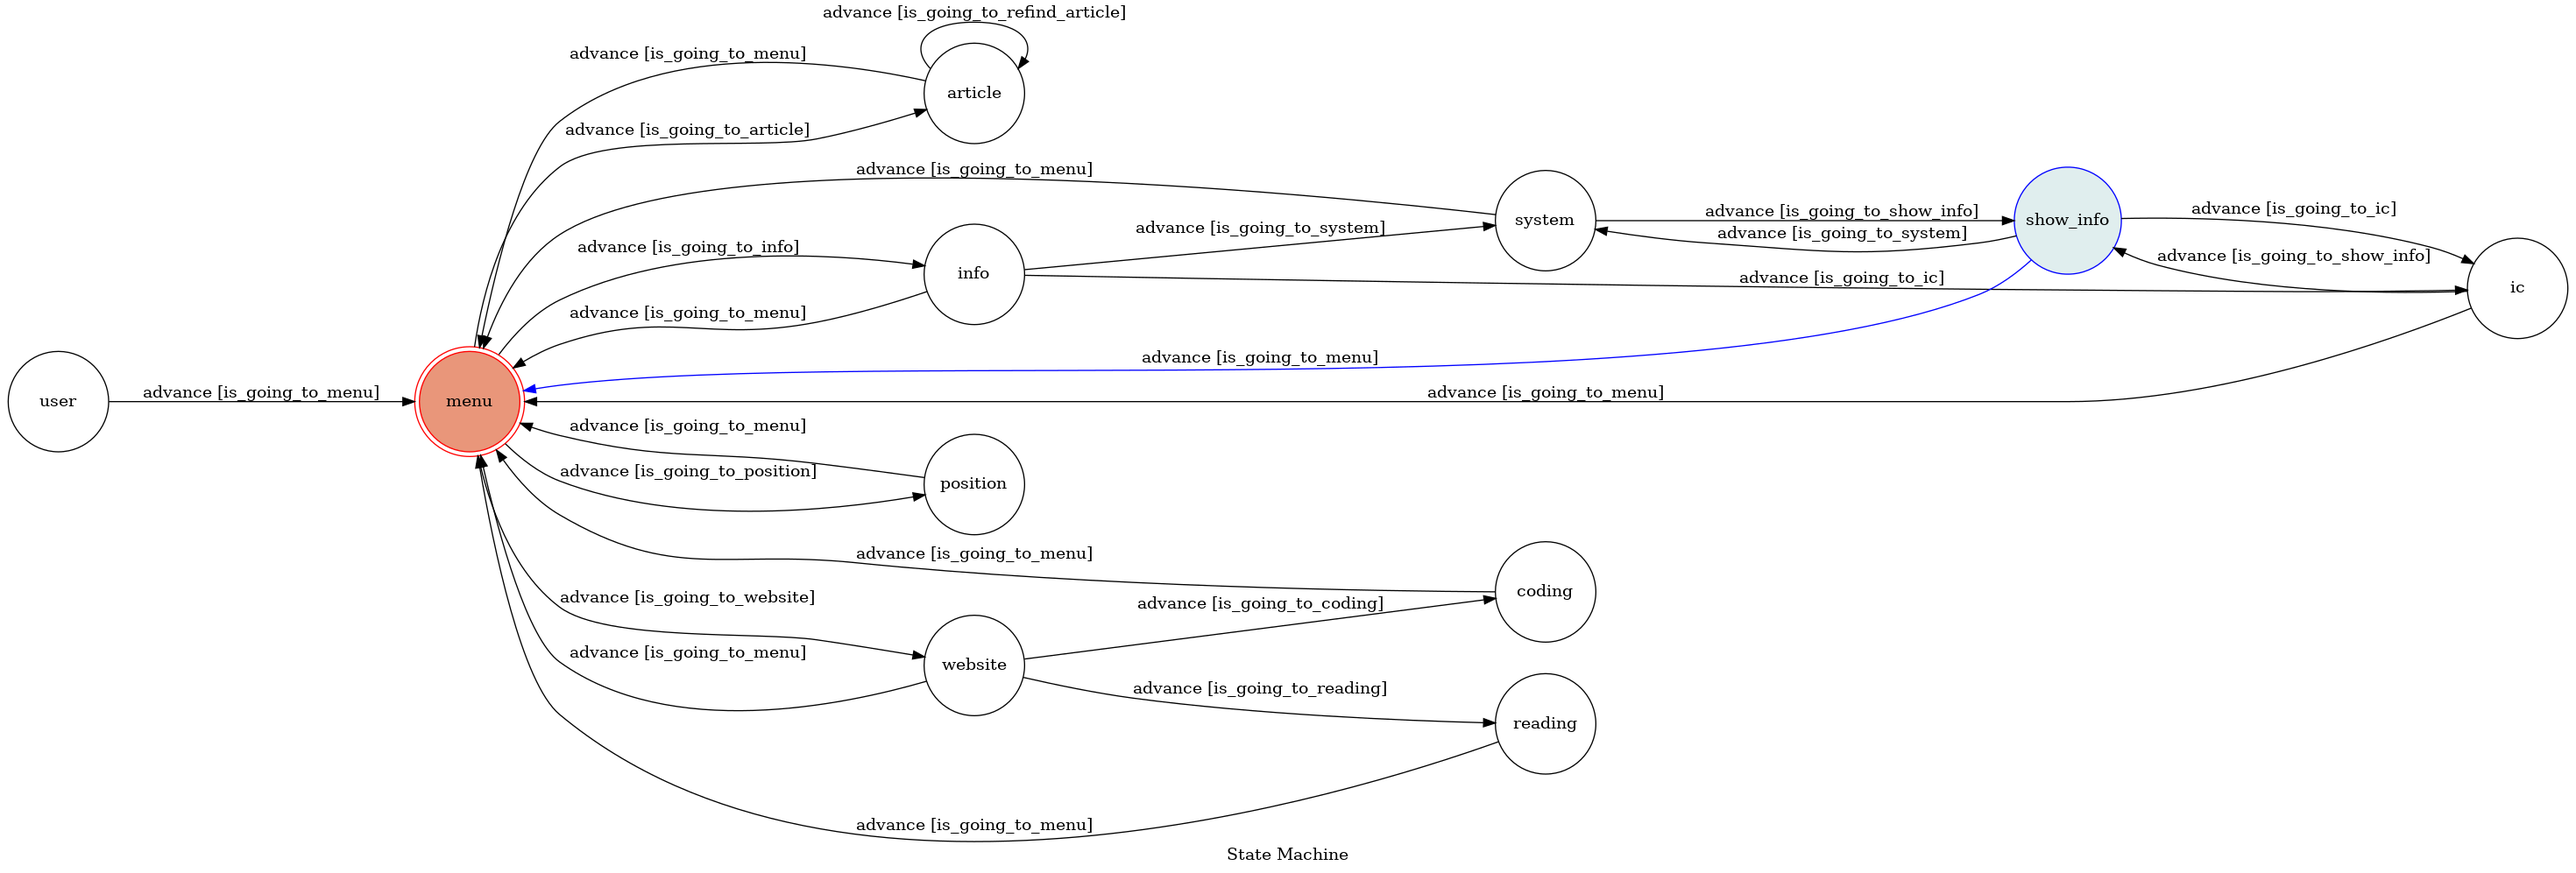
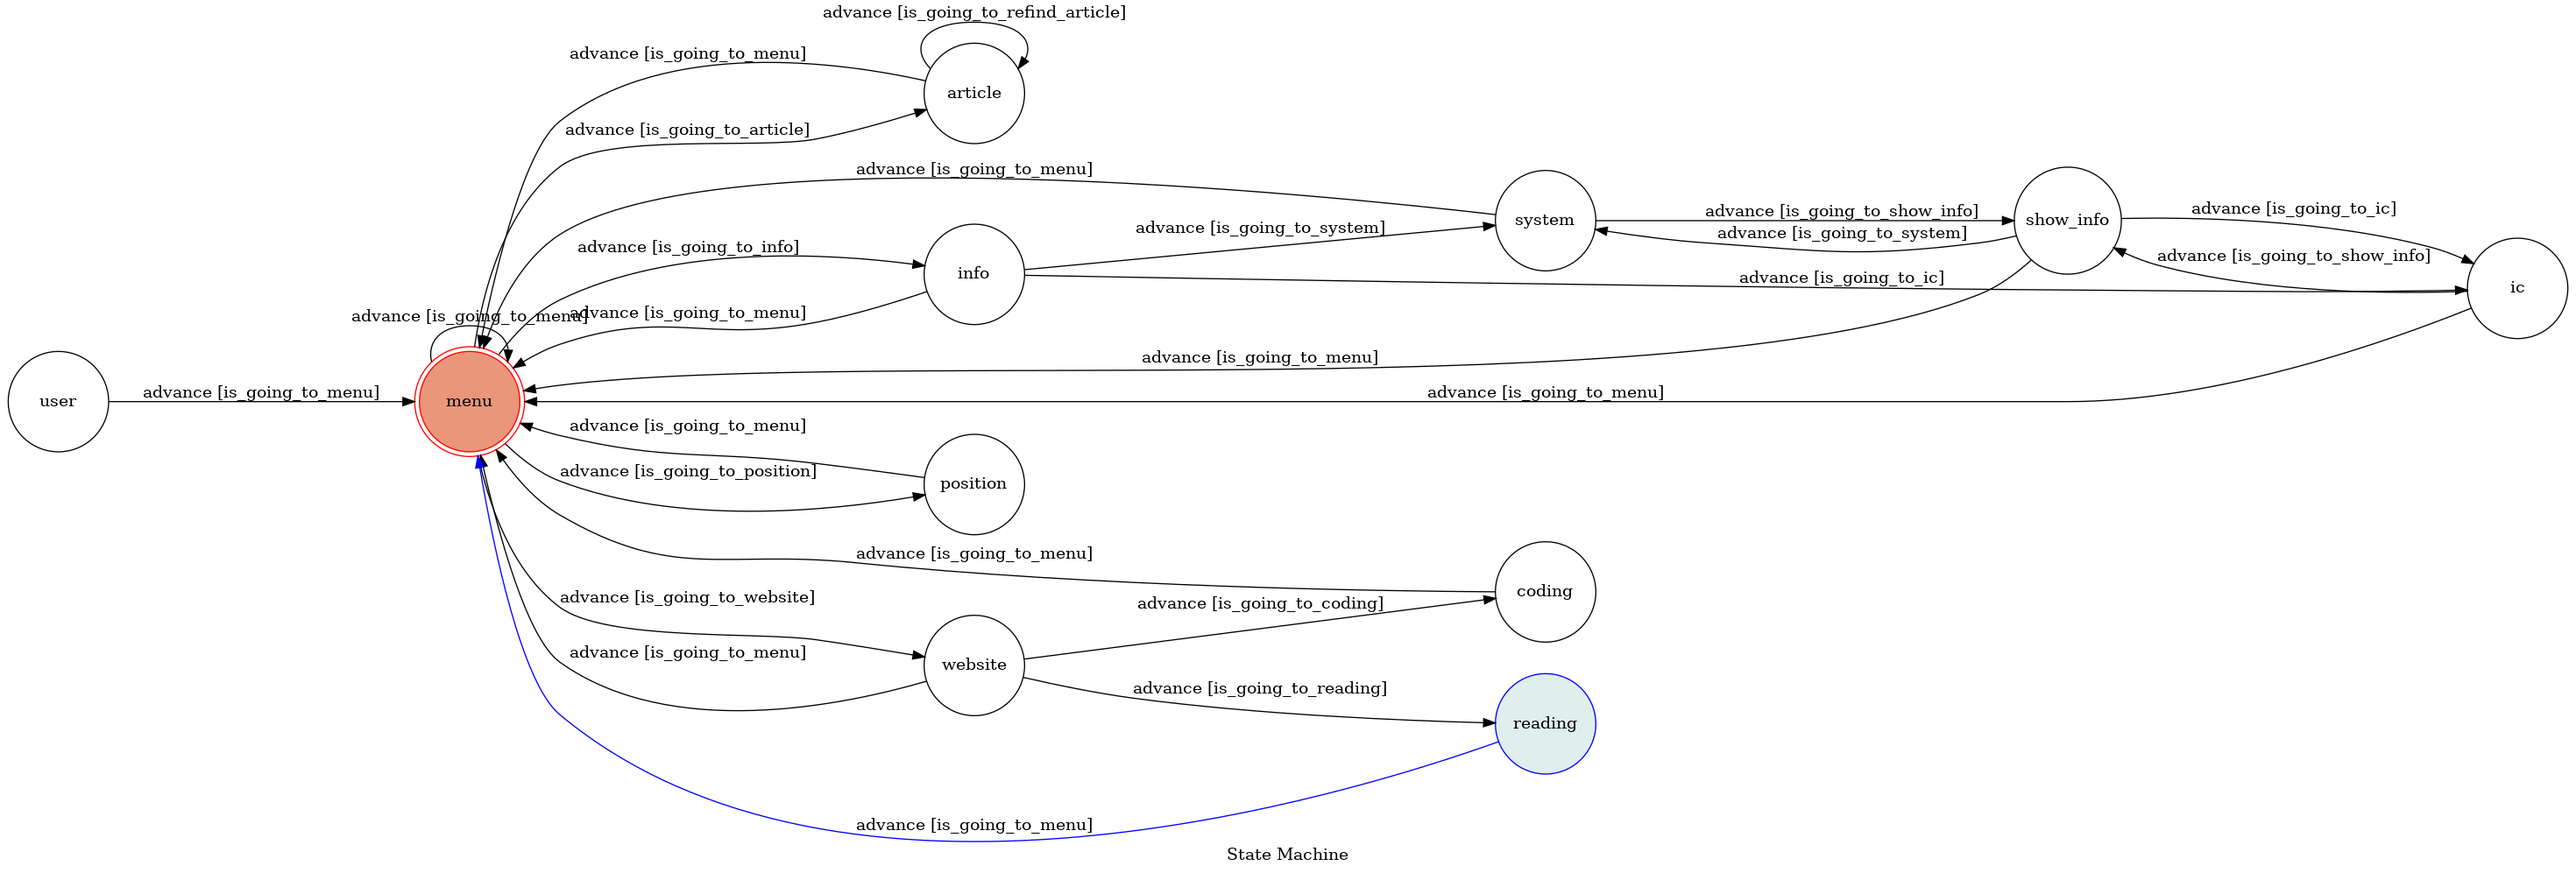
Main can self loop now

Changed region(s): [[0.7738, 0.1866, 0.8357, 0.3109], [0.5571, 0.7773, 0.619, 0.9017], [0.1548, 0.342, 0.2167, 0.3731]]

diff --git a/app.py b/app.py
@@ -153,6 +153,12 @@ machine = TocMachine(
             "dest": "menu",
             "conditions": "is_going_to_menu",
         },
+        {
+            "trigger": "advance",
+            "source": "menu",
+            "dest": "menu",
+            "conditions": "is_going_to_menu",
+        },
         #{"trigger": "go_back", "source": ["article", "info", "position", "website"], "dest": "user"},
     ],
     initial="user",
@@ -230,7 +236,7 @@ def webhook_handler():
         response = machine.advance(event)
         if response == False:
             if event.message.text.lower() == 'fsm':
-                send_image_url(event.reply_token, 'https://2a18-42-75-147-16.ngrok.io/show-fsm')
+                send_image_url(event.reply_token, 'https://c536-42-74-145-132.ngrok.io/show-fsm')
             else:
                 title = '【提醒】'
                 text = '請依照按鈕指示進行操作哦!'
